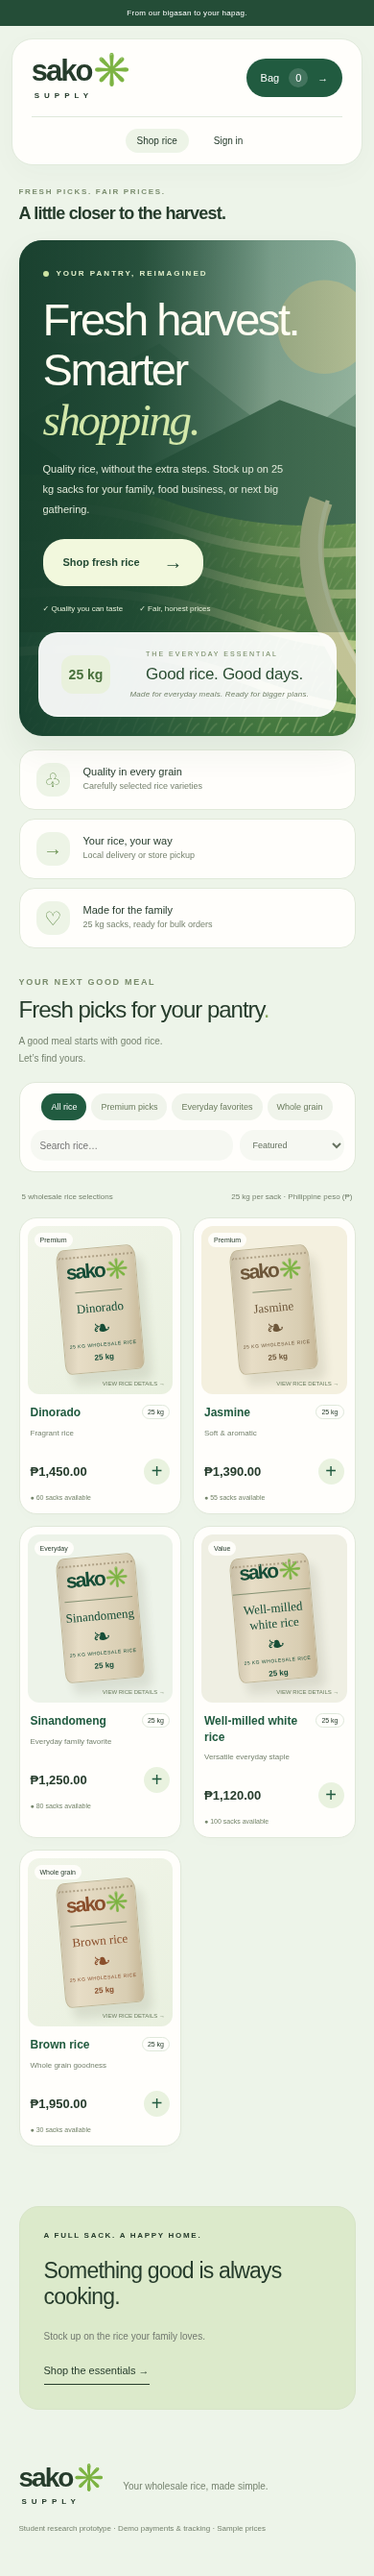
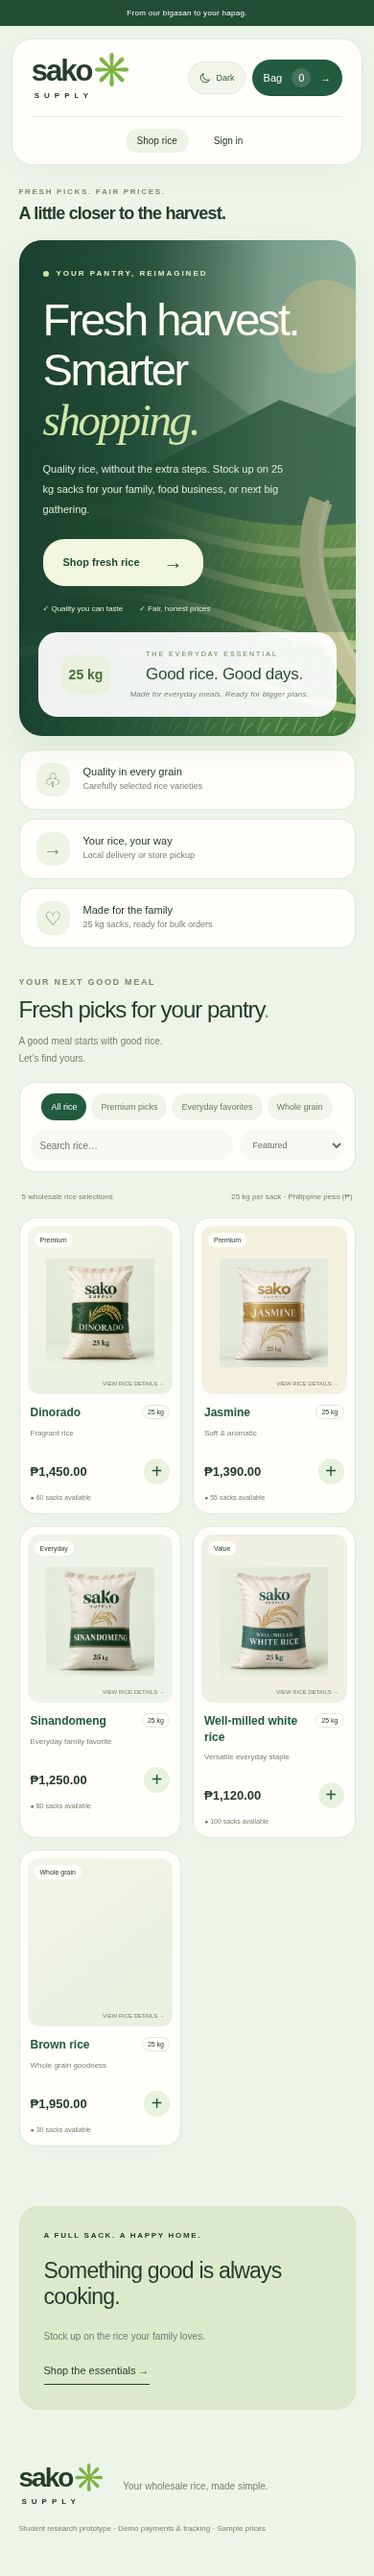
Add coordinated rice product mockups and an accessible image viewer

diff --git a/public/app.js b/public/app.js
@@ -111,9 +111,10 @@ function accountLabel() {
     ? `Fresh picks for you, ${user.name.split(" ")[0]}.`
     : "A little closer to the harvest.";
 }
+const imageFor = (p) => p.image || p.default_image || "";
 function sack(p) {
-  if (p.image)
-    return `<img class="rice-photo" src="${esc(p.image)}" alt="${esc(p.name)} 25 kg rice sack">`;
+  if (imageFor(p))
+    return `<img class="rice-photo" src="${esc(imageFor(p))}" alt="${p.image ? "" : "Sako product mockup: "}${esc(p.name)} 25 kg rice sack" loading="lazy" decoding="async">`;
   return `<div class="mini-sack" style="--sack-color:${p.name === "Jasmine" ? "#6d5639" : p.name === "Brown rice" ? "#8a4f2c" : "#164d37"}"><strong>sako✳</strong><span class="rice-name">${esc(p.name)}</span><i>❧</i><small>25 KG WHOLESALE RICE</small><b>25 kg</b></div>`;
 }
 function render() {
@@ -169,7 +170,14 @@ function productView(id) {
   const p = products.find((p) => p.id === +id);
   if (!p) return;
   $("#product-content").innerHTML =
-    `<div class="detail-product"><div class="product-art">${sack(p)}</div><div><div class="eyebrow">${esc(p.tag)} · 25 KG SACK</div><h2>${esc(p.name)}</h2><p>${esc(p.description)}</p><p class="price">${money(p.price)} <small>per 25 kg sack</small></p><p>${p.stock} sacks available · ${p.stock * 25} kg</p><form id="detail-add"><label>Number of sacks<input type="number" name="quantity" value="1" min="1" max="${p.stock}" required></label><button class="primary checkout-button" ${p.stock ? "" : "disabled"}>Add to bag →</button></form></div></div><div class="detail-notes"><div><h3>Texture & character</h3><p>${esc(p.texture)}</p></div><div><h3>Cooking notes</h3><p>${esc(p.cooking)}</p></div></div><p class="form-note">Rice type / retail description, not a commercial brand claim. Philippine-market sample listing. Price, origin, and stock require supplier confirmation. Store in a cool, dry place.</p>`;
+    `<div class="detail-product"><div><button type="button" class="product-art photo-open" id="open-product-image" aria-label="Enlarge ${esc(p.name)} image">${sack(p)}<span class="image-enlarge-hint">View larger ↗</span></button><p class="image-disclaimer">${p.image ? "Product image uploaded by the store." : p.default_image ? "Illustrative Sako packaging mockup — not a commercial supplier photo." : "Illustrative product packaging."}</p></div><div><div class="eyebrow">${esc(p.tag)} · 25 KG SACK</div><h2>${esc(p.name)}</h2><p>${esc(p.description)}</p><p class="price">${money(p.price)} <small>per 25 kg sack</small></p><p>${p.stock} sacks available · ${p.stock * 25} kg</p><form id="detail-add"><label>Number of sacks<input type="number" name="quantity" value="1" min="1" max="${p.stock}" required></label><button class="primary checkout-button" ${p.stock ? "" : "disabled"}>Add to bag →</button></form></div></div><div class="detail-notes"><div><h3>Texture & character</h3><p>${esc(p.texture)}</p></div><div><h3>Cooking notes</h3><p>${esc(p.cooking)}</p></div></div><p class="form-note">Rice type / retail description, not a commercial brand claim. Philippine-market sample listing. Price, origin, and stock require supplier confirmation. Store in a cool, dry place.</p>`;
+  $("#open-product-image").onclick = () => {
+    $("#image-viewer-title").textContent = p.name + " · 25 kg";
+    $("#image-viewer-content").innerHTML = imageFor(p)
+      ? `<img src="${esc(imageFor(p))}" alt="${esc(p.name)} rice sack"><p>${p.image ? "Store-uploaded product photo." : "Sako packaging mockup for demonstration purposes."}</p>`
+      : `<div class="product-art">${sack(p)}</div>`;
+    show("#image-viewer-dialog");
+  };
   $("#detail-add").onsubmit = (e) => {
     e.preventDefault();
     add(p.id, Number(new FormData(e.target).get("quantity")));
@@ -770,7 +778,7 @@ function ordersPanel(customerId) {
 }
 function inventoryPanel() {
   $("#admin-panel").innerHTML =
-    `<div class="section-line"><h2>Products & inventory</h2><button class="primary" id="new-product">+ Add product</button></div><p class="form-note">All new products are 25 kg sacks. Stock adjustments require a reason. Historical 5 kg products remain archived.</p><div class="table-scroll"><table class="admin-table"><thead><tr><th>Rice product</th><th>Price</th><th>Available</th><th>Actions</th></tr></thead><tbody>${adminData.products.map((p) => `<tr><td><div class="inventory-product">${p.image ? `<img src="${esc(p.image)}" alt="${esc(p.name)}">` : '<span class="inventory-placeholder">25<small>kg</small></span>'}<div><b>${esc(p.name)}</b><small>${p.weight} kg · ${p.active ? "Active" : "Archived"}</small></div></div></td><td>${money(p.price)}</td><td>${p.stock} sacks</td><td><button class="small-button" data-edit="${p.id}">Edit</button><button class="small-button" data-image="${p.id}">Change image</button><button class="small-button" data-adjust="${p.id}">Adjust stock</button></td></tr>`).join("")}</tbody></table></div><h3>Recent stock movements</h3><div class="table-scroll"><table class="admin-table"><thead><tr><th>Product</th><th>Change</th><th>Reason</th><th>Date</th></tr></thead><tbody>${adminData.movements.map((m) => `<tr><td>${esc(m.name)}</td><td>${m.delta > 0 ? "+" : ""}${m.delta}</td><td>${esc(m.reason)}</td><td>${date(m.created)}</td></tr>`).join("") || '<tr><td colspan="4">No adjustments recorded yet.</td></tr>'}</tbody></table></div>`;
+    `<div class="section-line"><h2>Products & inventory</h2><button class="primary" id="new-product">+ Add product</button></div><p class="form-note">All new products are 25 kg sacks. Stock adjustments require a reason. Historical 5 kg products remain archived.</p><div class="table-scroll"><table class="admin-table"><thead><tr><th>Rice product</th><th>Price</th><th>Available</th><th>Actions</th></tr></thead><tbody>${adminData.products.map((p) => `<tr><td><div class="inventory-product">${imageFor(p) ? `<img src="${esc(imageFor(p))}" alt="${esc(p.name)}">` : '<span class="inventory-placeholder">25<small>kg</small></span>'}<div><b>${esc(p.name)}</b><small>${p.weight} kg · ${p.active ? "Active" : "Archived"}</small></div></div></td><td>${money(p.price)}</td><td>${p.stock} sacks</td><td><button class="small-button" data-edit="${p.id}">Edit</button><button class="small-button" data-image="${p.id}">Change image</button><button class="small-button" data-adjust="${p.id}">Adjust stock</button></td></tr>`).join("")}</tbody></table></div><h3>Recent stock movements</h3><div class="table-scroll"><table class="admin-table"><thead><tr><th>Product</th><th>Change</th><th>Reason</th><th>Date</th></tr></thead><tbody>${adminData.movements.map((m) => `<tr><td>${esc(m.name)}</td><td>${m.delta > 0 ? "+" : ""}${m.delta}</td><td>${esc(m.reason)}</td><td>${date(m.created)}</td></tr>`).join("") || '<tr><td colspan="4">No adjustments recorded yet.</td></tr>'}</tbody></table></div>`;
   $("#new-product").onclick = () => productEditor();
   document
     .querySelectorAll("[data-edit]")
@@ -823,7 +831,7 @@ function productEditor(p) {
   };
   let removePhoto = false;
   $("#editor-content").innerHTML =
-    `<form id="product-edit"><section class="photo-editor"><div id="product-photo-preview">${item.image ? `<img src="${esc(item.image)}" alt="Current product photo">` : '<span class="photo-placeholder">↥<small>Add your rice product photo</small></span>'}</div><div><h3>Product image</h3><p class="form-note">Upload or replace a supplier-authorized photo. PNG, JPG, or WebP, up to 2 MB.</p><label class="upload-label">Choose product image<input id="product-photo" type="file" accept="image/png,image/jpeg,image/webp"></label><button type="button" id="remove-product-photo" class="small-button" ${item.image ? "" : "hidden"}>Remove image</button><p id="photo-selection-note" class="form-note">${item.image ? "Current photo is shown. Choose a file to replace it." : "No photo yet. A rice sack illustration will be used."}</p></div></section><div class="form-grid"><label>Rice name<input name="name" value="${esc(item.name)}" maxlength="80" required></label><label>Short description<input name="variety" value="${esc(item.variety)}" maxlength="150"></label><label>Price per 25 kg sack (PHP)<input name="price" type="number" min="1" max="100000" value="${item.price}" required></label><label>Category<select name="tag">${["Premium", "Everyday", "Value", "Whole grain"].map((t) => `<option ${t === item.tag ? "selected" : ""}>${t}</option>`).join("")}</select></label><label class="wide">Product description<textarea name="description" maxlength="2000" required>${esc(item.description)}</textarea></label><label class="wide">Texture<textarea name="texture" maxlength="500">${esc(item.texture)}</textarea></label><label class="wide">Cooking notes<textarea name="cooking" maxlength="500">${esc(item.cooking)}</textarea></label>${p ? `<label class="wide">Visibility<select name="active"><option value="true" ${item.active ? "selected" : ""}>Active</option><option value="false" ${!item.active ? "selected" : ""}>Archived</option></select></label>` : ""}</div><p class="form-note">All new products are 25 kg sacks and start with zero stock. Add a stock movement after saving.</p><button class="primary checkout-button" type="submit">Save product</button><p id="editor-error" role="alert"></p></form>`;
+    `<form id="product-edit"><section class="photo-editor"><div id="product-photo-preview">${imageFor(item) ? `<img src="${esc(imageFor(item))}" alt="Current product photo">` : '<span class="photo-placeholder">↥<small>Add your rice product photo</small></span>'}</div><div><h3>Product image</h3><p class="form-note">Upload or replace a supplier-authorized photo. PNG, JPG, or WebP, up to 2 MB.</p><label class="upload-label">Choose product image<input id="product-photo" type="file" accept="image/png,image/jpeg,image/webp"></label><button type="button" id="remove-product-photo" class="small-button" ${item.image ? "" : "hidden"}>Remove image</button><p id="photo-selection-note" class="form-note">${item.image ? "Current photo is shown. Choose a file to replace it." : "No custom photo yet. Matching Sako mockups are used for the standard rice types."}</p></div></section><div class="form-grid"><label>Rice name<input name="name" value="${esc(item.name)}" maxlength="80" required></label><label>Short description<input name="variety" value="${esc(item.variety)}" maxlength="150"></label><label>Price per 25 kg sack (PHP)<input name="price" type="number" min="1" max="100000" value="${item.price}" required></label><label>Category<select name="tag">${["Premium", "Everyday", "Value", "Whole grain"].map((t) => `<option ${t === item.tag ? "selected" : ""}>${t}</option>`).join("")}</select></label><label class="wide">Product description<textarea name="description" maxlength="2000" required>${esc(item.description)}</textarea></label><label class="wide">Texture<textarea name="texture" maxlength="500">${esc(item.texture)}</textarea></label><label class="wide">Cooking notes<textarea name="cooking" maxlength="500">${esc(item.cooking)}</textarea></label>${p ? `<label class="wide">Visibility<select name="active"><option value="true" ${item.active ? "selected" : ""}>Active</option><option value="false" ${!item.active ? "selected" : ""}>Archived</option></select></label>` : ""}</div><p class="form-note">All new products are 25 kg sacks and start with zero stock. Add a stock movement after saving.</p><button class="primary checkout-button" type="submit">Save product</button><p id="editor-error" role="alert"></p></form>`;
   $("#product-photo").onchange = () => {
     const file = $("#product-photo").files[0];
     if (!file) return;

diff --git a/server.js b/server.js
@@ -179,12 +179,26 @@ const publicUser = (u) =>
     : null;
 const minSacks = 1; // Wholesale catalog; no invented minimum purchase requirement.
 const deliveryFee = 150;
+const defaultProductImages = {
+  Dinorado: "dinorado",
+  Jasmine: "jasmine",
+  Sinandomeng: "sinandomeng",
+  "Well-milled white rice": "well-milled",
+  "Well-milled": "well-milled",
+  "Brown rice": "brown-rice",
+};
 const allProducts = (archived = false) =>
   db
     .prepare(
       `SELECT * FROM products ${archived ? "" : "WHERE active=1 AND weight=25"} ORDER BY id`,
     )
-    .all();
+    .all()
+    .map((product) => ({
+      ...product,
+      default_image: defaultProductImages[product.name]
+        ? `/assets/products/${defaultProductImages[product.name]}.png`
+        : "",
+    }));
 function session(req) {
   const token = (req.headers.cookie || "")
     .split(/;\s*/)
@@ -895,6 +909,14 @@ const server = http.createServer(async (req, res) => {
       "/admin": "public/index.html",
       "/assets/rice-fields.svg": "public/assets/rice-fields.svg",
       "/assets/demo-map.svg": "public/assets/demo-map.svg",
+      "/assets/products/brown-rice.png":
+        "public/assets/products/brown-rice.png",
+      "/assets/products/well-milled.png":
+        "public/assets/products/well-milled.png",
+      "/assets/products/sinandomeng.png":
+        "public/assets/products/sinandomeng.png",
+      "/assets/products/jasmine.png": "public/assets/products/jasmine.png",
+      "/assets/products/dinorado.png": "public/assets/products/dinorado.png",
       "/app.js": "public/app.js",
       "/style.css": "public/style.css",
       "/leaflet.js": "node_modules/leaflet/dist/leaflet.js",
@@ -903,13 +925,15 @@ const server = http.createServer(async (req, res) => {
     if (!files[p]) throw fail(404, "Not found.");
     const content = readFileSync(path.join(root, files[p]));
     res.writeHead(200, {
-      "Content-Type": p.endsWith(".svg")
-        ? "image/svg+xml"
-        : p.endsWith(".js")
-          ? "text/javascript; charset=utf-8"
-          : p.endsWith(".css")
-            ? "text/css; charset=utf-8"
-            : "text/html; charset=utf-8",
+      "Content-Type": p.endsWith(".png")
+        ? "image/png"
+        : p.endsWith(".svg")
+          ? "image/svg+xml"
+          : p.endsWith(".js")
+            ? "text/javascript; charset=utf-8"
+            : p.endsWith(".css")
+              ? "text/css; charset=utf-8"
+              : "text/html; charset=utf-8",
     });
     res.end(method === "HEAD" ? undefined : content);
   } catch (e) {

diff --git a/test/browser/store.spec.js b/test/browser/store.spec.js
@@ -443,3 +443,49 @@ test("dark mode follows system preference, persists a manual choice, and styles 
   );
   await page.screenshot({ path: "/tmp/sako-dark-admin.png" });
 });
+test("standard rice products have bundled images and accessible enlarged views", async ({
+  page,
+}) => {
+  await page.goto("/");
+  const products = await (await page.request.get("/api/products")).json();
+  const standards = products.filter((p) => p.default_image);
+  expect(standards).toHaveLength(5);
+  for (const product of standards) {
+    const response = await page.request.get(product.default_image);
+    expect(response.ok()).toBe(true);
+    expect(response.headers()["content-type"]).toContain("image/png");
+    const card = page
+      .locator(".product")
+      .filter({ has: page.locator(`[data-detail="${product.id}"]`) });
+    await expect(card.locator(".rice-photo")).toHaveAttribute(
+      "src",
+      product.image || product.default_image,
+    );
+    await expect
+      .poll(() =>
+        card
+          .locator(".rice-photo")
+          .evaluate((img) => img.complete && img.naturalWidth > 0),
+      )
+      .toBe(true);
+    await card.locator(".product-art").click();
+    await page
+      .getByRole("button", {
+        name: `Enlarge ${product.name} image`,
+        exact: true,
+      })
+      .click();
+    await expect(page.locator("#image-viewer-content img")).toHaveAttribute(
+      "src",
+      product.image || product.default_image,
+    );
+    await expect(page.locator("#image-viewer-dialog")).toContainText("mockup");
+    await page.keyboard.press("Escape");
+    await expect(page.locator("#product-dialog")).toBeVisible();
+    await page.keyboard.press("Escape");
+  }
+  await page.screenshot({
+    path: "/tmp/sako-product-images.png",
+    fullPage: true,
+  });
+});

diff --git a/public/style.css b/public/style.css
@@ -3482,3 +3482,56 @@ html[data-theme="dark"] .product:nth-child(n) .product-art {
 html[data-theme="dark"] .hero-art:before {
   color: #c8e1b7;
 }
+.photo-open {
+  cursor: zoom-in;
+  position: relative;
+}
+.image-enlarge-hint {
+  position: absolute;
+  bottom: 9px;
+  right: 11px;
+  border-radius: 12px;
+  padding: 5px 9px;
+  background: #ffffffdf;
+  color: #35563d;
+  font-size: 9px;
+}
+.image-disclaimer {
+  font-size: 9px !important;
+  color: var(--muted);
+  line-height: 1.7;
+  margin: 9px 3px !important;
+}
+.photo-open .rice-photo {
+  transition: transform 0.25s;
+}
+.photo-open:hover .rice-photo {
+  transform: scale(1.025);
+}
+#image-viewer-dialog {
+  width: min(820px, 94vw);
+}
+#image-viewer-content {
+  text-align: center;
+}
+#image-viewer-content > img {
+  display: block;
+  width: 100%;
+  height: min(65vh, 650px);
+  object-fit: contain;
+  border-radius: 16px;
+  background: #edf2e5;
+}
+#image-viewer-content > p {
+  font-size: 11px;
+  color: var(--muted);
+}
+html[data-theme="dark"] .image-enlarge-hint {
+  background: #263b2ce8;
+  color: #d8e8cd;
+}
+@media (prefers-reduced-motion: reduce) {
+  .photo-open:hover .rice-photo {
+    transform: none;
+  }
+}

diff --git a/public/index.html b/public/index.html
@@ -241,6 +241,13 @@
       <div id="receipt-content"></div>
       <button id="print-receipt" class="primary">Print / Save as PDF →</button>
     </dialog>
+    <dialog id="image-viewer-dialog">
+      <div class="dialog-header">
+        <h2 id="image-viewer-title">Product image</h2>
+        <button data-close aria-label="Close">×</button>
+      </div>
+      <div id="image-viewer-content"></div>
+    </dialog>
     <div id="toast" role="status"></div>
     <script src="/leaflet.js"></script>
     <script type="module" src="/app.js"></script>

diff --git a/README.md b/README.md
@@ -141,3 +141,7 @@ Screenshots of the refreshed interface: [desktop storefront](docs/screenshots/st
 ## Light and dark mode
 
 Use the theme toggle beside the bag button. The first visit follows your device's light/dark preference; a manual choice is saved in this browser and survives reloads. The theme applies to the storefront, account forms, and dashboard. Product photos retain their original colors, and printed receipts keep a white background.
+
+## Product image collection
+
+The five standard rice types include bundled, AI-generated Sako 25 kg packaging mockups with coordinated pale sage studio backgrounds and distinct rice labels. They are illustrative house-brand designs, not verified photographs of commercial supplier packaging. Images load locally from `public/assets/products`, without third-party image links. Uploaded admin photos take precedence; removing a custom photo restores the matching default for standard products. Product cards open details; click **View larger** in the product details image for an enlarged, keyboard-accessible viewer (Escape closes it).
